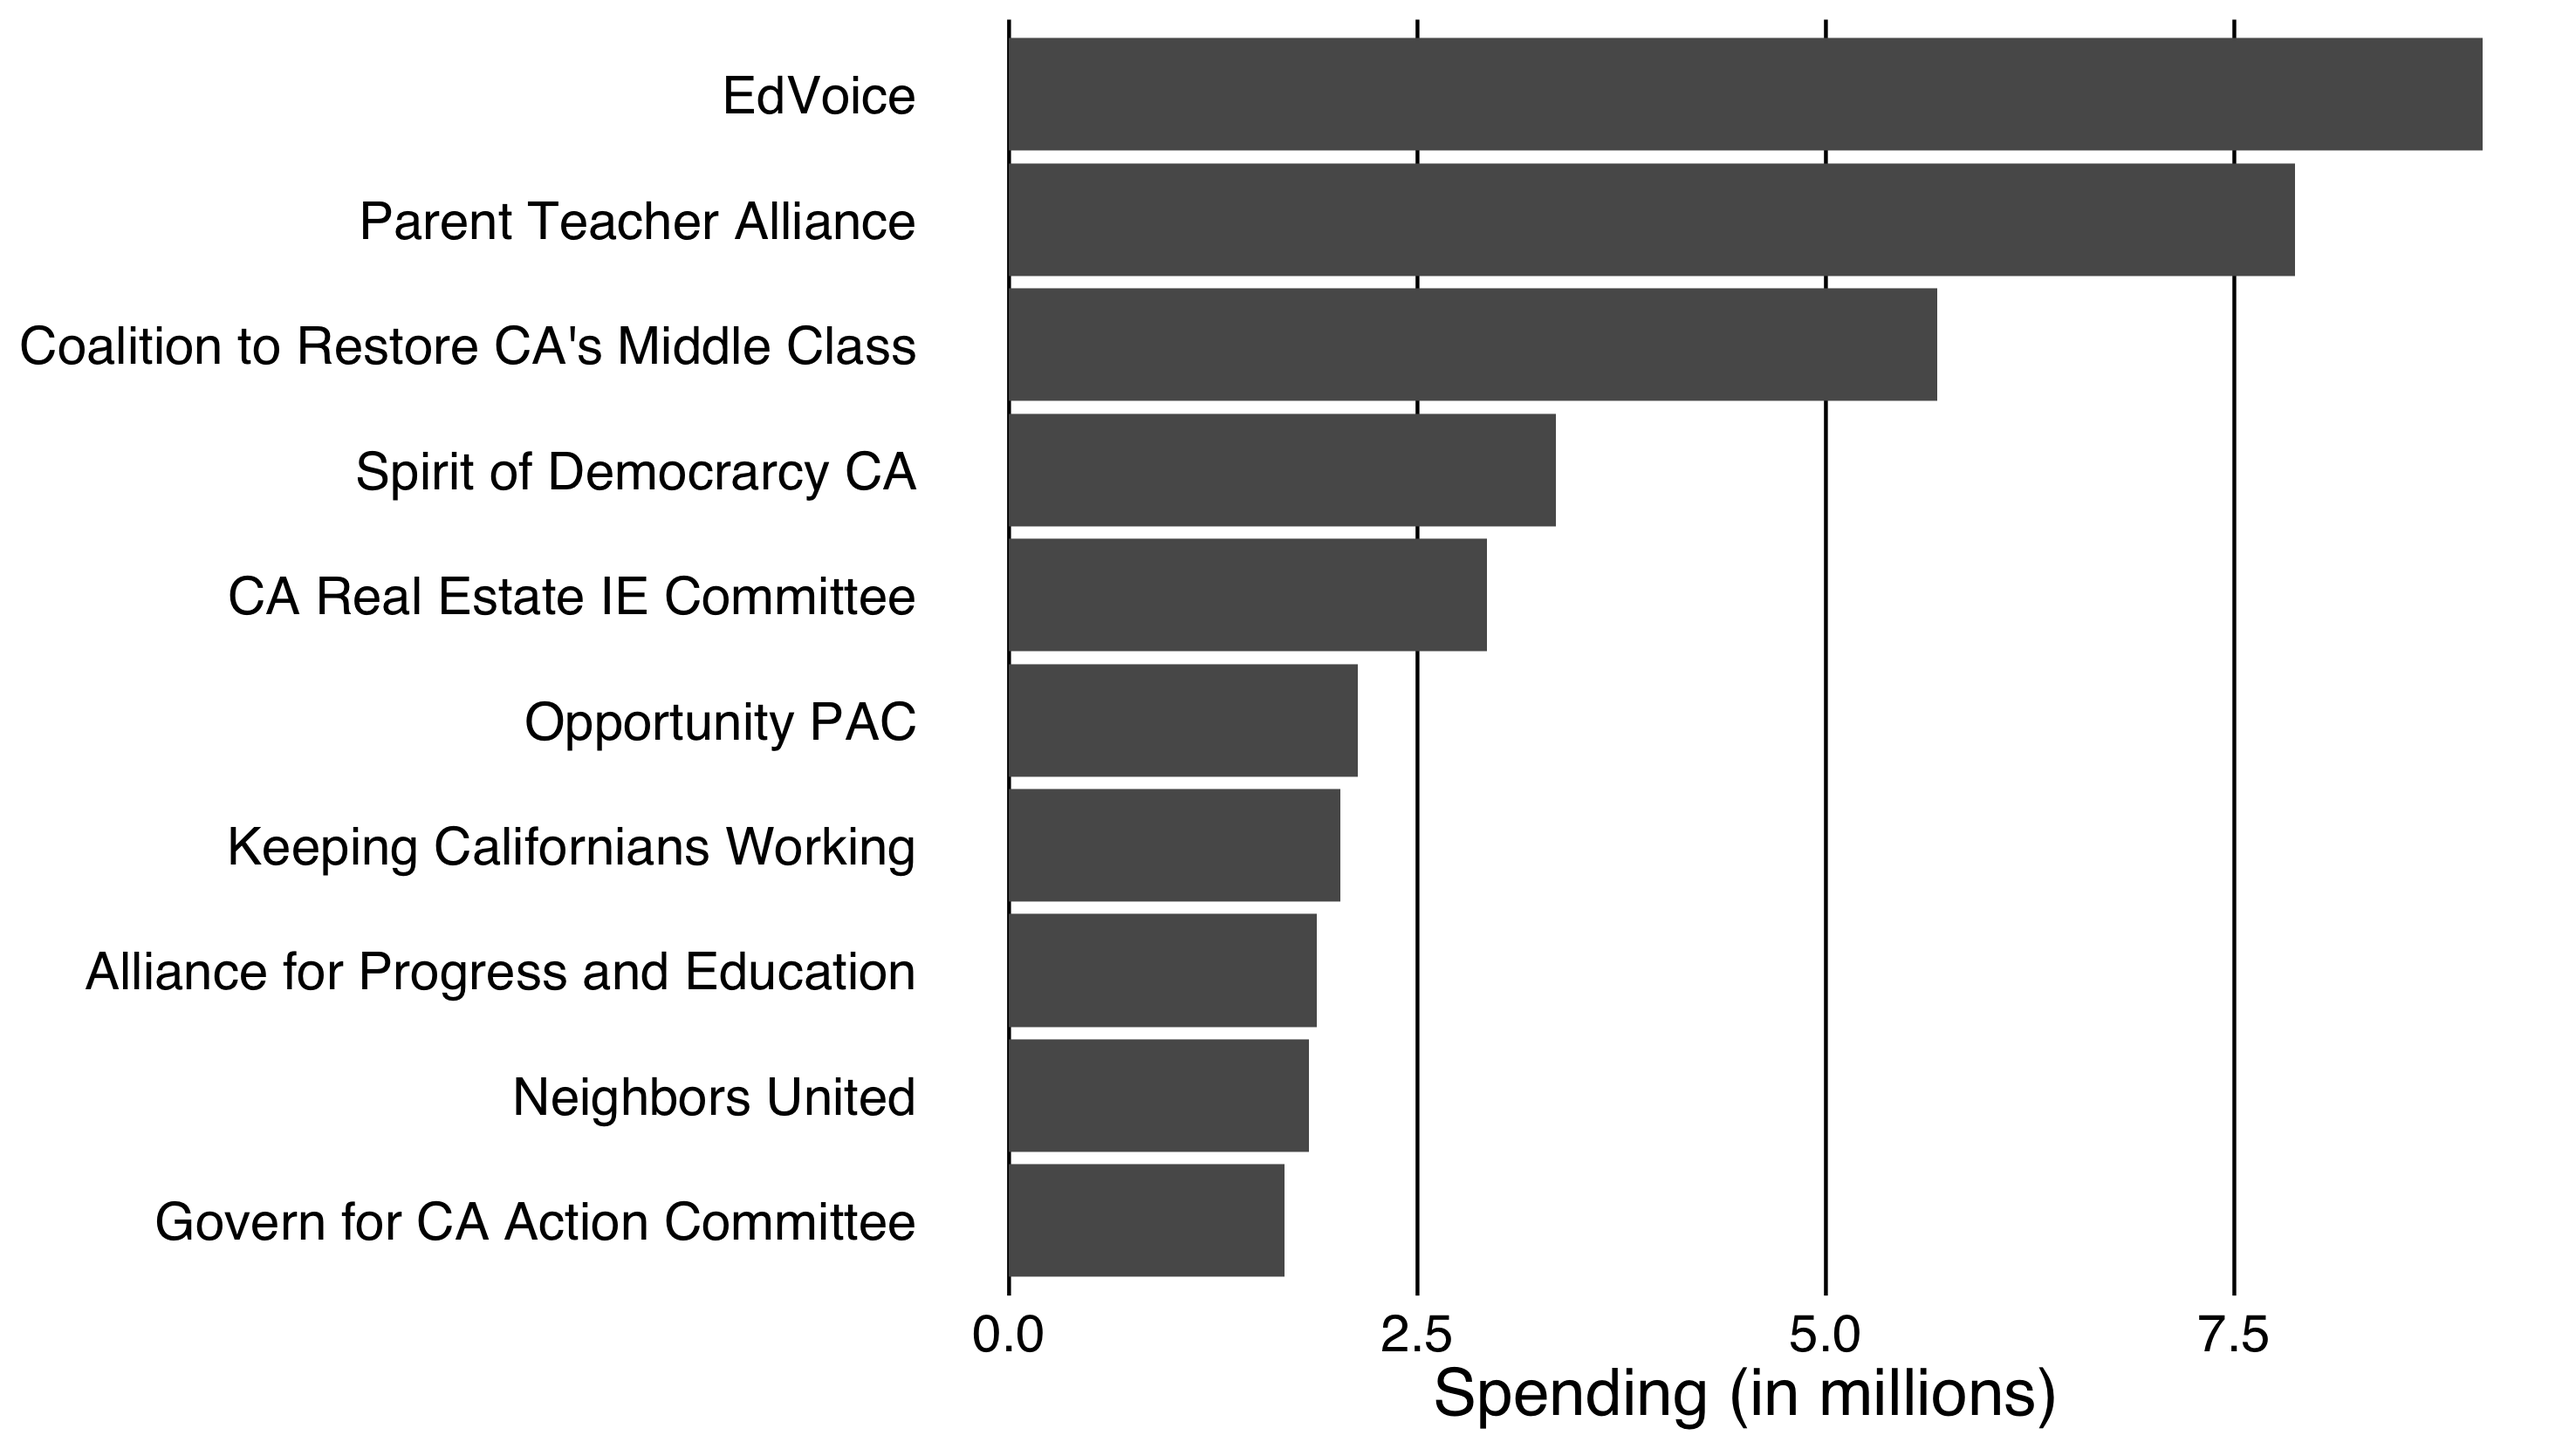
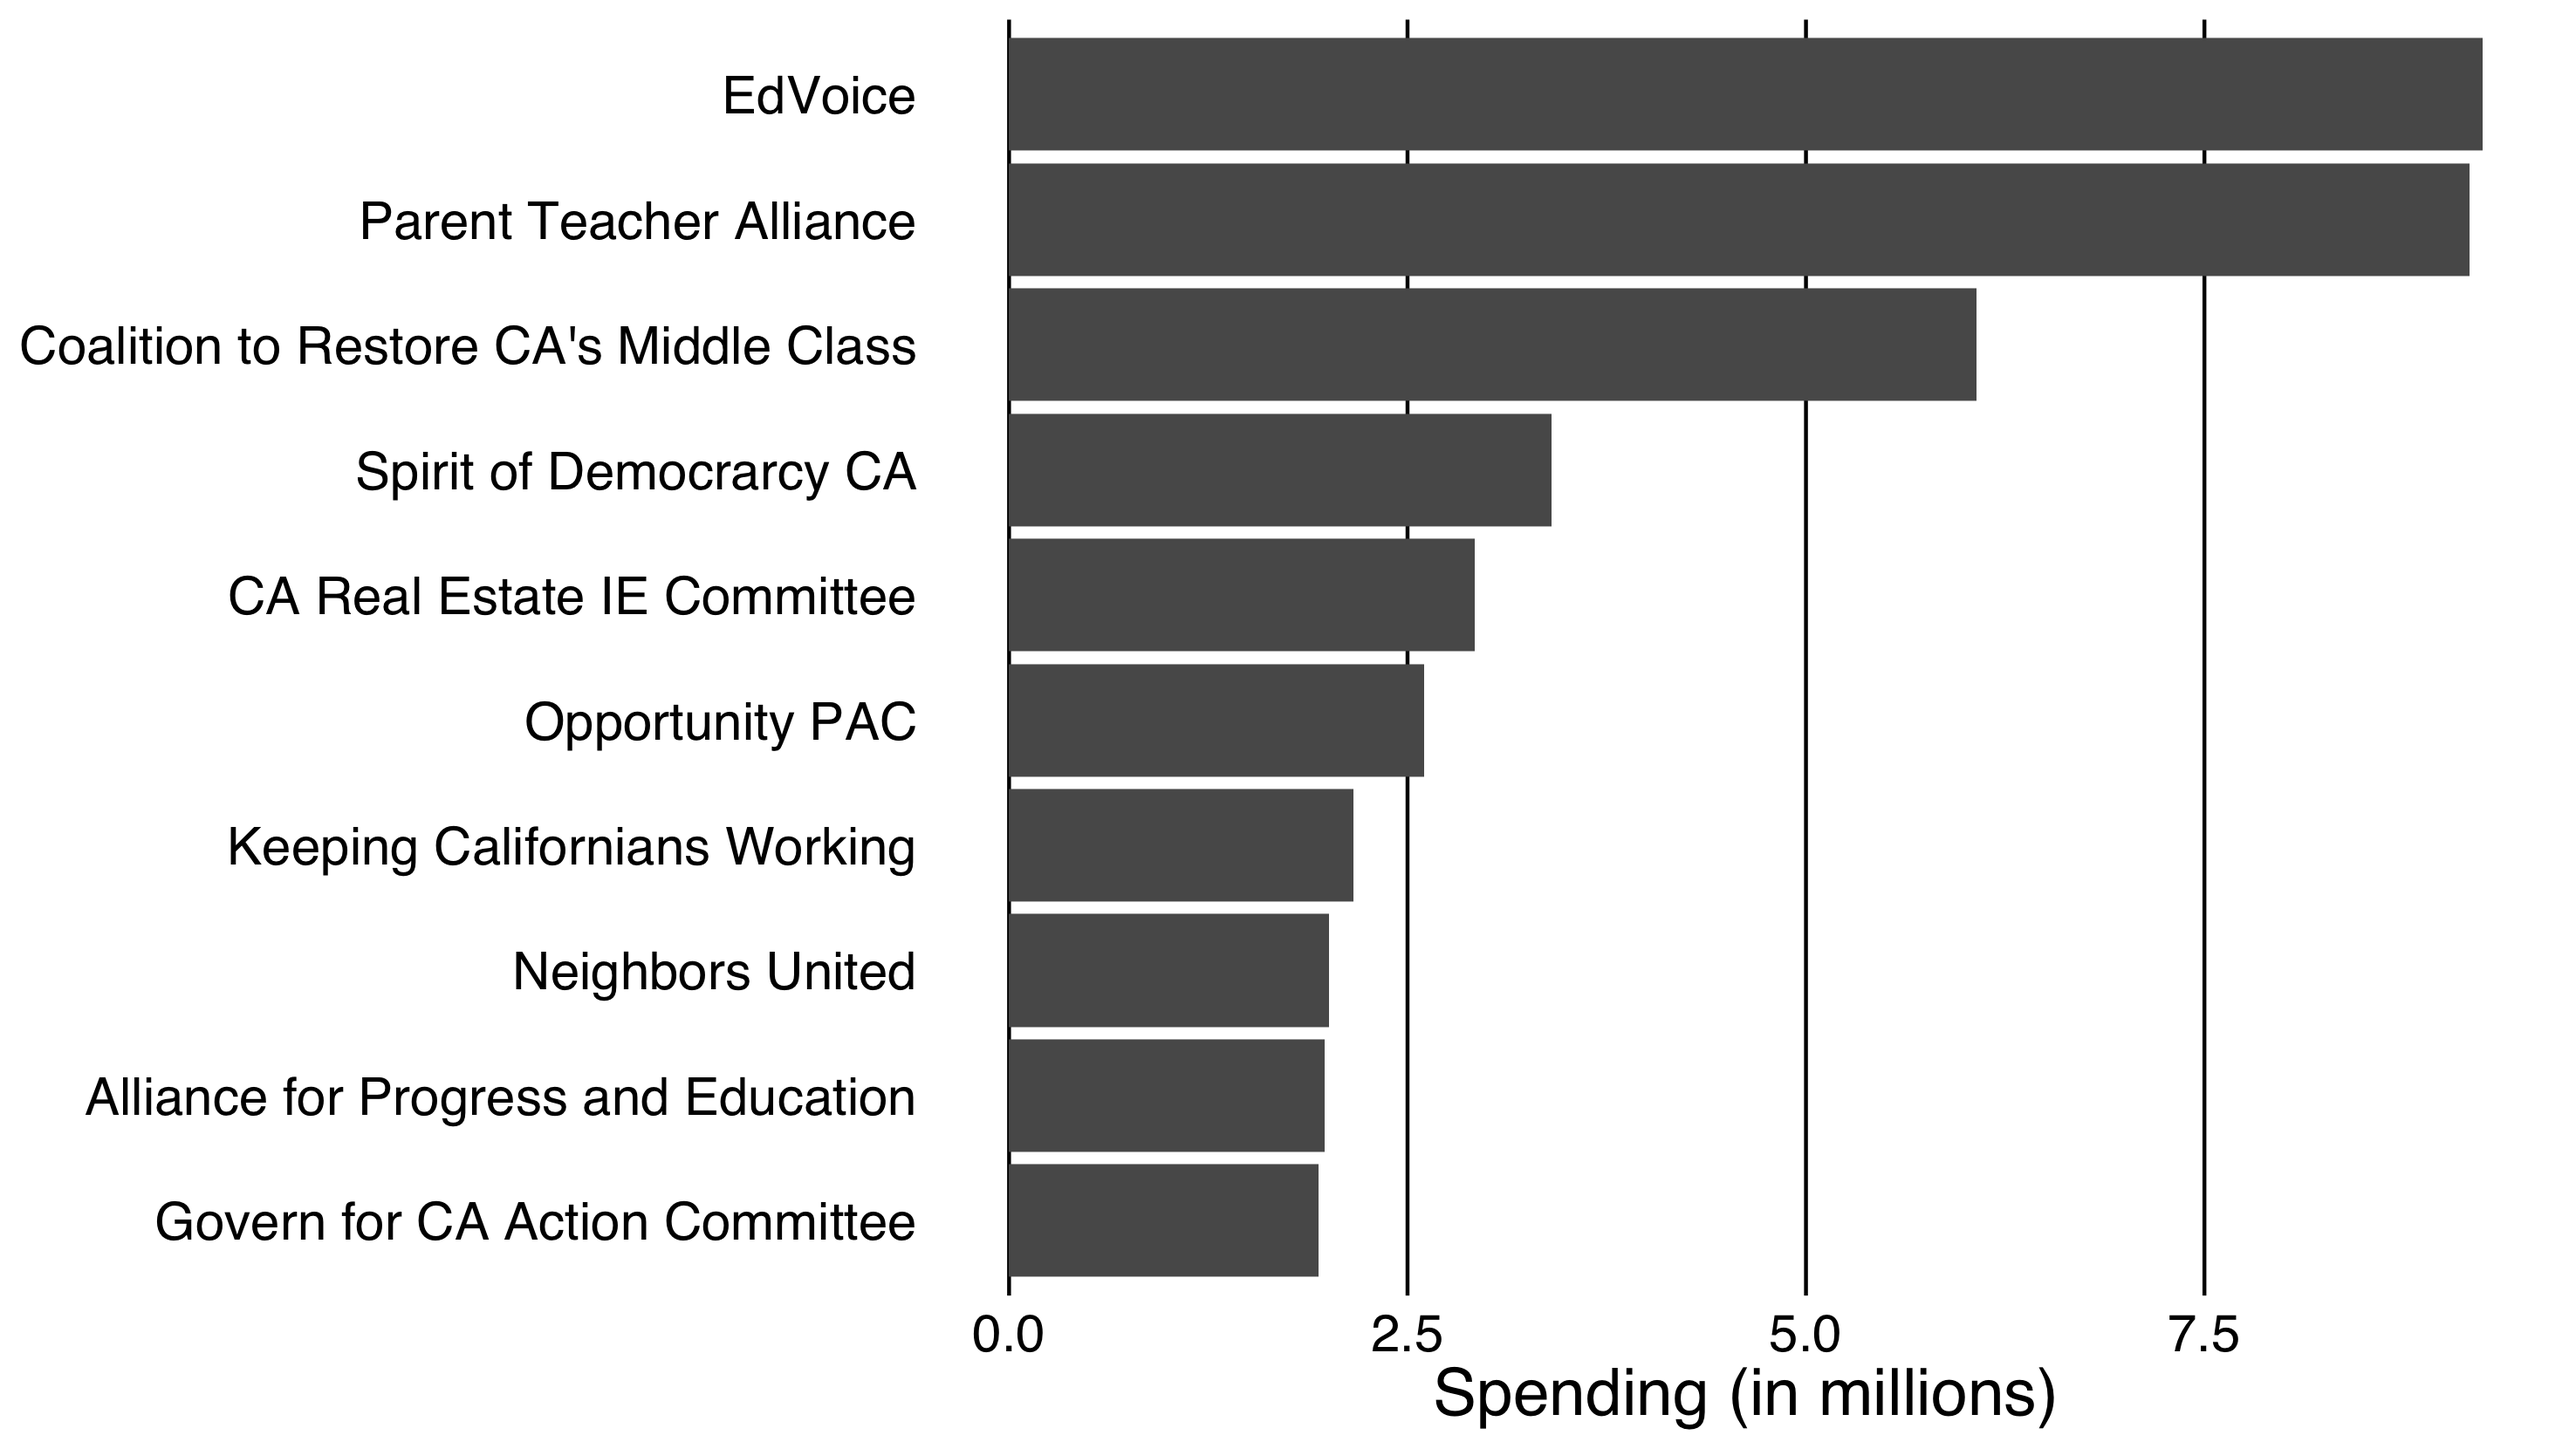
update to charter data

diff --git a/charts/2016-ie/templates/data-visuals.html b/charts/2016-ie/templates/data-visuals.html
@@ -1,7 +1,7 @@
 <div class="col-xs-12 col-sm-12 col-md-12 col-lg-12">
     <h3>How much are charter advocates spending?</h3>
     <p>A lot. Below are the ten biggest outside spenders in California legislative races this year. As of November 1, the top two spenders are both education reform groups — EdVoice and the Parent Teacher Alliance.</p>
-    <p>Both charter groups have spent $2 million more than the number three spender, the Coalition to Restore California's Middle Class, <a href="http://www.scpr.org/news/2016/10/04/65238/inland-empire-election-sees-flurry-of-spending-by/">which is backed by oil companies</a>.</p>
+    <p>Both charter groups have spent $3 million more than the number three spender, the Coalition to Restore California's Middle Class, <a href="http://www.scpr.org/news/2016/10/04/65238/inland-empire-election-sees-flurry-of-spending-by/">which is backed by oil companies</a>.</p>
     <img src="http://projects.scpr.org/charts/2016-ie/images/ie_2016.png" width=100%>
 
     <h3>Who's funding the charter push?</h3>
@@ -11,7 +11,7 @@
 
 
     <h3>Which races are attracting the most money?</h3>
-    <p>Below are the top ten races, ranked by the amount of outside spending they've attracted this year from all groups. The state's most expensive battle is for the East Bay Area's 14th Assembly District, which has seen the most outside spending of any Assembly race in California history, according to the California Target Book's Rob Pyers. That contest pits Tim Grayson against fellow Democrat Mae Torlakson. EdVoice has sent about $3 million of the nearly $9 million total, making them the single biggest spender in the race.</p>
+    <p>Below are the top ten races, ranked by the amount of outside spending they've attracted this year from all groups. The state's most expensive battle is for the East Bay Area's 14th Assembly District, which has seen the most outside spending of any Assembly race in California history, according to the California Target Book's Rob Pyers. That contest pits Tim Grayson against fellow Democrat Mae Torlakson. EdVoice has sent about $4 million of the more than $9 million total, making them the single biggest spender in the race.</p>
     <p>Other expensive races have seen waves of spending by charter-allied groups, including Northern California's 3rd Senate District, the 27th Assembly District in and around San Jose, and Los Angeles County's <a href="http://www.scpr.org/news/2016/06/21/61628/charter-group-money-flooded-local-election-but-man/">43rd Assembly District</a> races.</p>
     <img src="http://projects.scpr.org/charts/2016-ie/images/races_2016.png" width=100%>
 </div>

diff --git a/charts/2016-ie/templates/data-details.html b/charts/2016-ie/templates/data-details.html
@@ -5,8 +5,8 @@
             <h1>Money from charter school advocates in 2016 elections</h1>
         </div>
         <div class="text collapse">
-            <p><span class="credits">Produced by <a href="http://www.scpr.org/about/people/staff/aaron-mendelson">Aaron Mendelson</a> | <span class="pubdate">November 2, 2016</span></p>
-            <p>Explore the funding and political spending of groups advocating for charter schools in California. Data retrieved November 1, 2016.</p>
+            <p><span class="credits">Produced by <a href="http://www.scpr.org/about/people/staff/aaron-mendelson">Aaron Mendelson</a> | <span class="pubdate">Updated November 7, 2016</span></p>
+            <p>Explore the funding and political spending of groups advocating for charter schools in California. Data initially retrieved November 1, 2016, data and updated on November 7.</p>
         </div>
         <div class="about collapse">
             <p><strong>Sources</strong>: Cal-Access <a href="http://cal-access.sos.ca.gov/">independent expenditures</a> from the California Secretary of State, as published by <a href="http://www.californiacivicdata.org/">the California Civic Data Coalition</a>. Political donations were downloaded directly from Cal-Access, and the donations to EdVoice and the Parent Teacher Alliance since 2014 were grouped together to show total donations to charter groups.</p>
